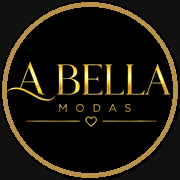
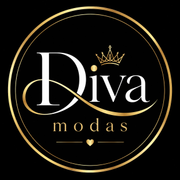
feat: rebrand completo de A Bella Modas para Diva Modas
- Substituídas todas as ocorrências de "A Bella Modas" e "a-bella-modas" por "Diva Modas" / "diva-modas"
- Nova logo (Icone.jpeg) processada e salva como logo-diva-modas.png
- Ícones PWA atualizados: icons/icon-192x192.png e icons/icon-512x512.png
- Favicon e apple-touch-icon regenerados a partir da nova logo
- manifest.json atualizado: name, short_name, description e caminhos dos ícones
- index.html: título, meta tags e apple-mobile-web-app-title
- Sidebar e Topbar: src e alt atualizados para logo-diva-modas.png
- PDFs exportados (relatório e lista de reposição) com novo nome da marca
- Cloudinary: pasta de upload alterada para diva-modas/
- Script gerar-icones.js atualizado para usar nova logo

Changed region(s): [[0.0, 0.0, 1.0, 1.0]]

diff --git a/frontend/scripts/gerar-icones.js b/frontend/scripts/gerar-icones.js
@@ -1,20 +1,24 @@
 const sharp = require('sharp');
 const path = require('path');
+const fs = require('fs');
 
-const svg = path.join(__dirname, '../public/logo.svg');
+const entrada = path.join(__dirname, '../public/logo-diva-modas.png');
 const out = path.join(__dirname, '../public');
+const outIcons = path.join(out, 'icons');
 
 async function gerar() {
-  await sharp(svg).resize(192, 192).png().toFile(path.join(out, 'icon-192.png'));
-  console.log('icon-192.png gerado');
+  if (!fs.existsSync(outIcons)) fs.mkdirSync(outIcons, { recursive: true });
 
-  await sharp(svg).resize(512, 512).png().toFile(path.join(out, 'icon-512.png'));
-  console.log('icon-512.png gerado');
+  await sharp(entrada).resize(192, 192).png().toFile(path.join(outIcons, 'icon-192x192.png'));
+  console.log('icons/icon-192x192.png gerado');
 
-  await sharp(svg).resize(180, 180).flatten({ background: '#111111' }).png().toFile(path.join(out, 'apple-touch-icon.png'));
+  await sharp(entrada).resize(512, 512).png().toFile(path.join(outIcons, 'icon-512x512.png'));
+  console.log('icons/icon-512x512.png gerado');
+
+  await sharp(entrada).resize(180, 180).flatten({ background: '#111111' }).png().toFile(path.join(out, 'apple-touch-icon.png'));
   console.log('apple-touch-icon.png gerado');
 
-  await sharp(svg).resize(32, 32).png().toFile(path.join(out, 'favicon.ico'));
+  await sharp(entrada).resize(32, 32).png().toFile(path.join(out, 'favicon.ico'));
   console.log('favicon.ico gerado');
 
   console.log('\nTodos os ícones gerados com sucesso!');

diff --git a/frontend/index.html b/frontend/index.html
@@ -3,10 +3,10 @@
   <head>
     <meta charset="UTF-8" />
     <meta name="viewport" content="width=device-width, initial-scale=1.0" />
-    <title>A Bella Modas — Sistema de Gestão</title>
-    <meta name="description" content="Sistema de gestão interno da loja A Bella Modas" />
-    <meta property="og:title" content="A Bella Modas — Sistema de Gestão" />
-    <meta property="og:site_name" content="A Bella Modas" />
+    <title>Diva Modas — Sistema de Gestão</title>
+    <meta name="description" content="Sistema de gestão interno da loja Diva Modas" />
+    <meta property="og:title" content="Diva Modas — Sistema de Gestão" />
+    <meta property="og:site_name" content="Diva Modas" />
     <link rel="manifest" href="/manifest.json" />
     <link rel="icon" href="/favicon.ico" sizes="any" />
     <link rel="icon" type="image/png" href="/icon-192.png" />
@@ -14,7 +14,7 @@
     <meta name="theme-color" content="#111111" />
     <meta name="apple-mobile-web-app-capable" content="yes" />
     <meta name="apple-mobile-web-app-status-bar-style" content="black-translucent" />
-    <meta name="apple-mobile-web-app-title" content="A Bella Modas" />
+    <meta name="apple-mobile-web-app-title" content="Diva Modas" />
     <meta name="mobile-web-app-capable" content="yes" />
     <link rel="preconnect" href="https://fonts.googleapis.com" />
     <link rel="preconnect" href="https://fonts.gstatic.com" crossorigin />

diff --git a/frontend/src/pages/RelatorioPage.jsx b/frontend/src/pages/RelatorioPage.jsx
@@ -39,7 +39,7 @@ export default function RelatorioPage() {
   function exportarPDF() {
     if (!resumo) return;
     const doc = new jsPDF();
-    doc.setFont('helvetica', 'bold'); doc.setFontSize(18); doc.text('A Bella Modas', 14, 20);
+    doc.setFont('helvetica', 'bold'); doc.setFontSize(18); doc.text('Diva Modas', 14, 20);
     doc.setFont('helvetica', 'normal'); doc.setFontSize(11); doc.text('Relatório de Vendas', 14, 28);
     doc.setFontSize(9);
     doc.text(`Período: ${PERIODOS.find((p) => p.key === periodo)?.label || periodo}`, 14, 35);
@@ -72,7 +72,7 @@ export default function RelatorioPage() {
         headStyles: { fillColor: [17, 17, 17] },
       });
     }
-    doc.save('relatorio-a-bella-modas.pdf');
+    doc.save('relatorio-diva-modas.pdf');
   }
 
   return (

diff --git a/frontend/src/components/layout/Topbar.jsx b/frontend/src/components/layout/Topbar.jsx
@@ -13,7 +13,7 @@ export default function Topbar() {
   const { pathname } = useLocation();
   const { width } = useWindowSize();
   const isMobile = width < 768;
-  const titulo = titulos[pathname] || 'A Bella Modas';
+  const titulo = titulos[pathname] || 'Diva Modas';
   const hoje = format(new Date(), isMobile ? "dd/MM/yyyy" : "EEEE, dd 'de' MMMM", { locale: ptBR });
 
   return (
@@ -31,8 +31,8 @@ export default function Topbar() {
     >
       <div style={{ display: 'flex', alignItems: 'center', gap: 10 }}>
         <img
-          src="/logo-abella.jpeg"
-          alt="A Bella Modas"
+          src="/logo-diva-modas.png"
+          alt="Diva Modas"
           style={{
             width: isMobile ? 32 : 36,
             height: isMobile ? 32 : 36,

diff --git a/frontend/src/components/estoque/ListaReposicao.jsx b/frontend/src/components/estoque/ListaReposicao.jsx
@@ -19,7 +19,7 @@ export default function ListaReposicao({ produtos = [], onFechar }) {
     const doc = new jsPDF();
     doc.setFont('helvetica', 'bold');
     doc.setFontSize(16);
-    doc.text('A Bella Modas — Lista de Reposição', 14, 20);
+    doc.text('Diva Modas — Lista de Reposição', 14, 20);
     doc.setFont('helvetica', 'normal');
     doc.setFontSize(10);
     doc.text(`Gerado em: ${new Date().toLocaleDateString('pt-BR')}`, 14, 28);
@@ -32,7 +32,7 @@ export default function ListaReposicao({ produtos = [], onFechar }) {
       headStyles: { fillColor: [17, 17, 17] },
     });
 
-    doc.save('lista-reposicao-a-bella-modas.pdf');
+    doc.save('lista-reposicao-diva-modas.pdf');
   }
 
   return (

diff --git a/frontend/src/components/layout/Sidebar.jsx b/frontend/src/components/layout/Sidebar.jsx
@@ -75,7 +75,7 @@ export default function Sidebar({ collapsed }) {
                 lineHeight: 1.1,
               }}
             >
-              A Bella
+              Diva
             </div>
             <div
               style={{
@@ -144,8 +144,8 @@ export default function Sidebar({ collapsed }) {
 function Logo({ tamanho }) {
   return (
     <img
-      src="/logo-abella.jpeg"
-      alt="A Bella Modas"
+      src="/logo-diva-modas.png"
+      alt="Diva Modas"
       style={{
         width: tamanho,
         height: tamanho,

diff --git a/backend/src/server.js b/backend/src/server.js
@@ -6,5 +6,5 @@ const logger = require('./utils/logger');
 const PORTA = parseInt(process.env.PORT, 10) || 3001;
 
 app.listen(PORTA, () => {
-  logger.info({ porta: PORTA, ambiente: process.env.NODE_ENV }, 'Servidor A Bella Modas iniciado');
+  logger.info({ porta: PORTA, ambiente: process.env.NODE_ENV }, 'Servidor Diva Modas iniciado');
 });

diff --git a/backend/src/services/cloudinary.js b/backend/src/services/cloudinary.js
@@ -23,7 +23,7 @@ function aguardar(ms) {
  * Retorna { url, publicId } para armazenar ambos no banco.
  */
 async function enviarImagem(buffer, mimeType) {
-  const publicId = `a-bella-modas/${uuidv4()}`;
+  const publicId = `diva-modas/${uuidv4()}`;
 
   for (let tentativa = 1; tentativa <= TENTATIVAS_MAXIMAS; tentativa++) {
     try {

diff --git a/frontend/src/index.css b/frontend/src/index.css
@@ -2,7 +2,7 @@
 @tailwind components;
 @tailwind utilities;
 
-/* Variáveis CSS da identidade visual A Bella Modas */
+/* Variáveis CSS da identidade visual Diva Modas */
 :root {
   --bg: #F7F5F2;
   --branco: #FFFFFF;
